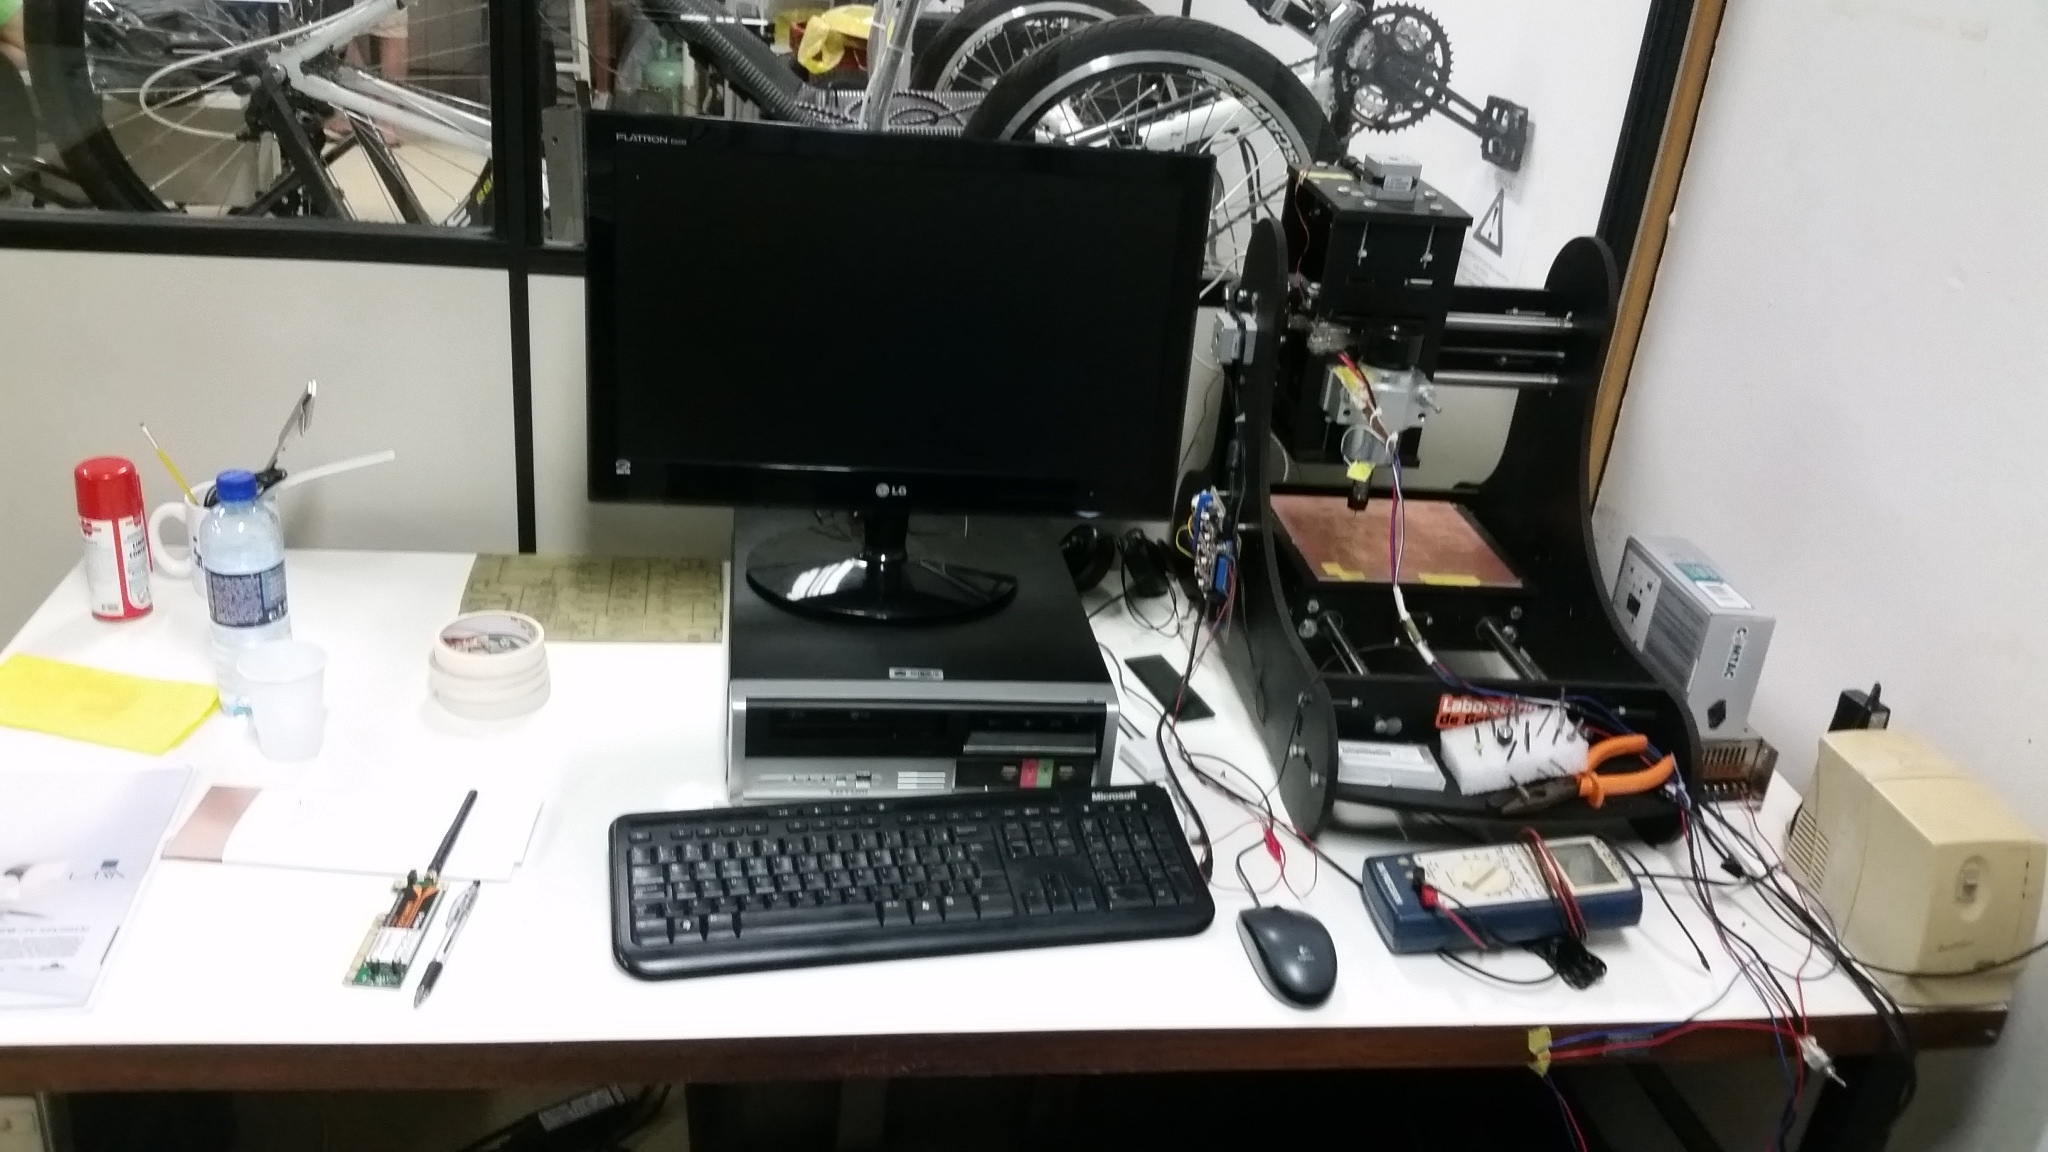
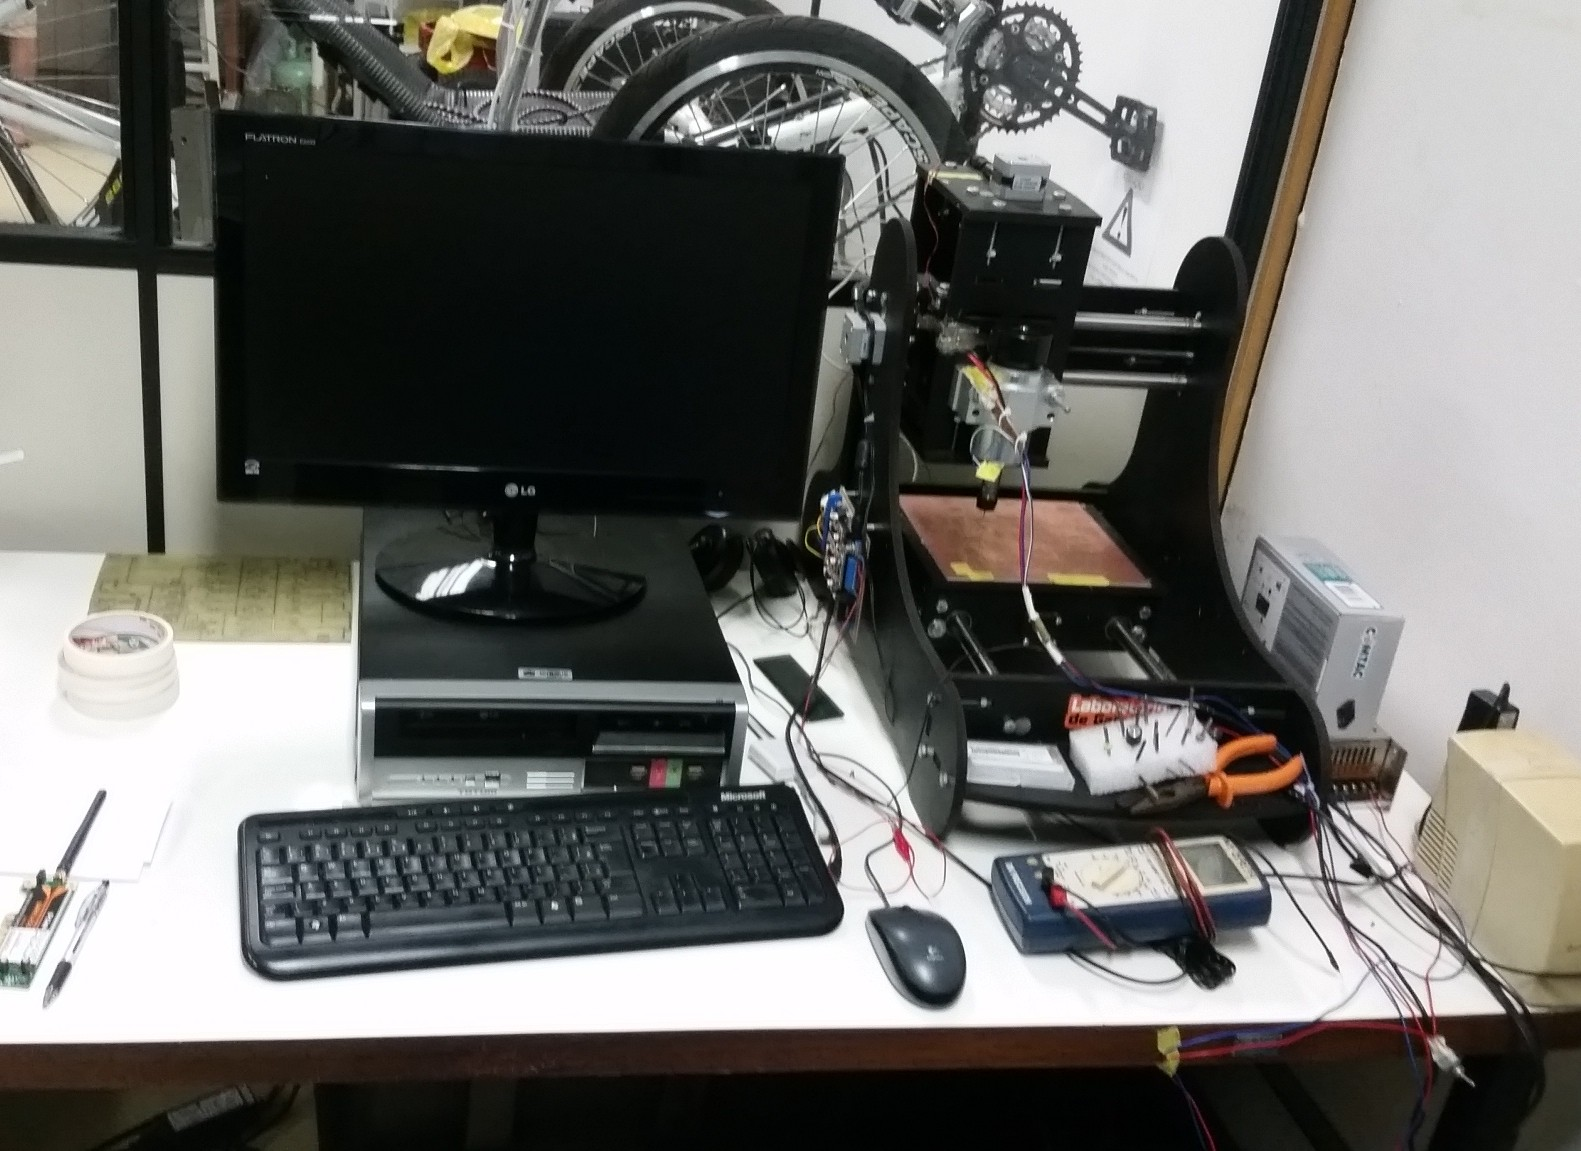
printing knowledgement

diff --git a/Manufacturing.tex b/Manufacturing.tex
@@ -1,33 +1,74 @@
 \section{\textbf{Manufacturing}}\label{sec:4}
     For this project two PCB were made, hence in the presentation will be used two motors.
-    As the simulation (see Section~\ref{sec:3}) proved that the designed circuit works as intended the physical components were assembled in a breadboard for further testing and validation before the final manufacturing \todo{complete with relevant information about final board}. Figure~\ref{fig:proto_h} shows the circuit properly assembled. This circuit's evaluation will be further discussed in Section~\ref{sec:5}.
+    As the simulation (see Section~\ref{sec:3}) proved that the designed circuit (see Figure~\ref{fig:schem}) works as intended the physical components were assembled in a breadboard for further testing and validation before the final manufacturing \todo{complete with relevant information about final board}. Figure~\ref{fig:proto_h} shows the circuit properly assembled. This circuit's evaluation will be further discussed in Section~\ref{sec:5}.
 
     \subsubsection{Fritizing} % (fold)
     \label{ssub:fritizing}
-        For aid the design of the printed circuit board it was used the software Fritizing\footnote{\url{http://fritzing.org/home/}}, that is an open source software used worldwide by hobbyists and it is an Electronic Design Automation software
-        The Fritizing has 3 environments, shown in Figure~\ref{fig:breadboard}, they are breadboard, schematic and PCB, it was used only the schematic and design environments since the breadboard already has been evaluated.
-    \todo{Show the fritzing environment, the schematics, board design and board manufacturing}
+        For aid the design of the printed circuit board it was used the software Fritizing\footnote{\url{http://fritzing.org/}}, that is an open source software used worldwide by hobbyists and it is an Electronic Design Automation software
+        The Fritizing has 3 environments, shown in Figure~\ref{fig:breadboard}, they are breadboard, schematic and PCB, it was used only the schematic and design environments since the breadboard already has been evaluated. The Figures~\ref{fig:schem_fritz} and~\ref{fig:pcb_fritz} show the schematics and PCB environments designing the board.
     % subsubsection fritizing (end)
 
     \subsubsection{Design} % (fold)
-    \label{ssub:printing}
-
+    \label{ssub:design}
+        After tested on breadboard the H Bridge go to design step were the components and PCB layout were chosen. The board have the following components:
+        \begin{itemize}
+            \item 1 switch with 3 states (on 1, off, on 2);
+            \item 4 transistors NPN TIP31C;
+            \item 4 resistors of $100\:\Omega$;
+            \item 1 motor;
+            \item 1 power source;
+        \end{itemize}
+        To interchange between the activation of Q1/Q2 and Q3/Q4 a switch component capable of turn on each side of the H bridge and turn off both sides was chosen, TIP31C was chosen because of its wide use range and readiness in buying. The resistors was the same as in the simulation and with the motor the board can be evaluated.
     % subsubsection printing (end)
 
     \subsubsection{Printing} % (fold)
     \label{ssub:printing}
-    
+        The H Bridge PCB was made on a CNC machine, which can be either milling as drill machine being able to made the circuit tracks and drill the components holes. The CNC machine is set at LARA, Figure~\ref{fig:workstation}, an ENE-UnB laboratory, and has been used for prototyping PCBs. With the layout done in Fritizing the project was exported in a Geber extension(RS-274X) and then it was used the FlatCAM\footnote{\url{http://flatcam.org/}} software to read the Geber files and generate the G code of the path for the milling and drill tool. After setting the length of the tools, the CNC machine was calibrated and leveled, so it was started the PCB printing. The first version of the circuit gone through the continuity test, it was corrected some printing issues as tracks not full separated, also the hole for the switch was too tight then it was used a Dremel to increase the radius. Finished the PCB test, the soldering had began, the first components soldier was resistors as they're the less problematic components, followed by the transistors and then the headers for the power source and the motor.
     % subsubsection printing (end)
-	\todo{TALK ABOUT CIRCUIT PRINTING}
 	
-	
-	For the sake of validation the Magician Chasis \todo{picture and ref} was properly assembled and each board produced was attached to a motor which was connected to a wheel of the Chasis. This allowed the vehicle to move forward or backward depending on the switch's position.
+	For the sake of validation the Magician Chassis (see Figure~\ref{fig:mag}) was properly assembled and each board produced was attached to a motor which was connected to a wheel of the Chassis. This allowed the vehicle to move forward or backward depending on the switch's position.
+
+\begin{figure}[t]
+\centering
+\centering%
+\includegraphics[height=.35\textwidth]{img/workstation_cnc.jpg}
+\caption{CNC Workstation.}
+\label{fig:workstation}%
+\end{figure}
+
 \begin{figure}[t]
 \centering
 \centering%
 \includegraphics[height=.35\textwidth]{img/FritzingBreadBoard.png}
 \caption{Fritizing showing the breadboard environment.}
 \label{fig:breadboard}%
+\end{figure}
+
+\begin{figure}[t]
+\centering
+\centering%
+\includegraphics[height=.35\textwidth]{img/magician.jpg}
+\caption{Magician Chassis (picture borrowed from Sparkfun site).}
+\label{fig:mag}%
+\end{figure}
+
+\begin{figure}
+\centering
+\begin{subfigure}{\columnwidth}
+\centering
+\includegraphics[height=.65\textwidth]{img/ponteH_schem.png}
+\caption{Schematic on Fritizing.}
+\label{fig:schem_fritz}
+\end{subfigure}
+
+\begin{subfigure}{\columnwidth}
+\centering
+\includegraphics[height=.75\textwidth]{img/ponteH_pcb.png}
+\caption{PCB design on Fritizing.}
+\label{fig:pcb_fritz}
+\end{subfigure}
+
+\caption{H Bridge on Fritizing.}
 \end{figure}
 
 

diff --git a/Simulation.tex b/Simulation.tex
@@ -18,7 +18,7 @@
 \end{figure*}
 
     The circuit design was simulated using PSpice software distributed by OrCAD. The circuit shown in Figure~\ref{fig:schem} was reproduced in PSpice (see Figure \ref{fig:schem_pspice}). The software does not support the transistor model used in the actual implementation, the TIP31C, instead the Q2N2222 was used to replace it given they are very similar, only the maximum supported values for voltages change. The power source used was a $4.5\;V$ DC supply as in the physical circuit three AA batteries will be used as the power supply.The value of all transistors base resistances was set to $100\:\Omega$. The DC motor simplified equivalent circuit is an inductor and a resistor~\cite{CHAPMAN}. The U8 and U7 times were set to $500\; ms$.\newline
-    The motor used in the tests are the one included on the Magician Chassis\footnote{https://www.sparkfun.com/products/retired/12866} by Sparkfun, they have the following characteristics:
+    The motor used in the tests are the one included on the Magician Chassis\footnote{\url{https://www.sparkfun.com/products/retired/12866}} by Sparkfun, they have the following characteristics:
     \begin{itemize}
         \item Max Motor Voltage: 6 VDC;
         \item No Load Speed: $90\pm10$ rpm;
